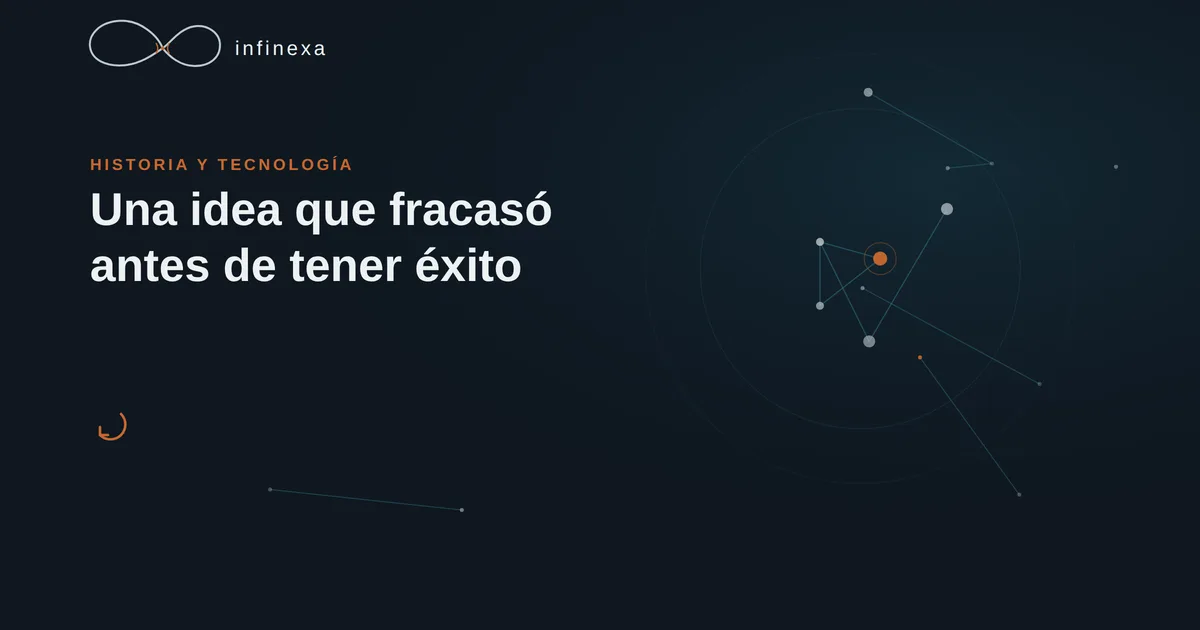
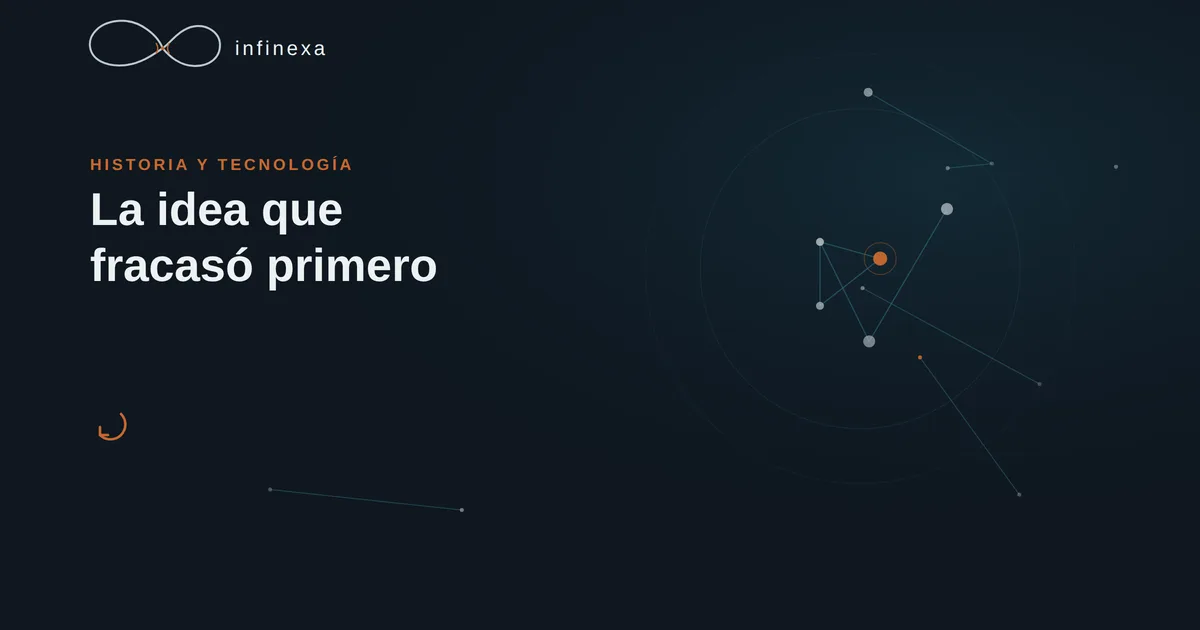
Corregir duplicidad título/imagen en arco Bitcoin (posts #10-13)

Changed region(s): [[0.0617, 0.3016, 0.4625, 0.3619], [0.0617, 0.3921, 0.4317, 0.4524]]

diff --git a/_plantillas/sistema-imagenes-blog/generar_destacadas.py b/_plantillas/sistema-imagenes-blog/generar_destacadas.py
@@ -171,16 +171,16 @@ CONFIGS = [
          titulo=["Ingreso pasivo:", "lo que sí es"], subtitulo=None,
          icon="diversifica", seed=77),
     dict(out="piezas-rompecabezas", category="HISTORIA Y TECNOLOGÍA",
-         titulo=["Las piezas de un", "rompecabezas de 30 años"], subtitulo=None,
+         titulo=["30 años de", "piezas sueltas"], subtitulo=None,
          icon="patron", seed=89),
     dict(out="ecash-digicash", category="HISTORIA Y TECNOLOGÍA",
-         titulo=["Una idea que fracasó", "antes de tener éxito"], subtitulo=None,
+         titulo=["La idea que", "fracasó primero"], subtitulo=None,
          icon="patron", seed=97),
     dict(out="whitepaper-bitcoin", category="ECONOMÍA DESCENTRALIZADA",
-         titulo=["El documento de nueve", "páginas que cambió todo"], subtitulo=None,
+         titulo=["Nueve páginas,", "un cambio total"], subtitulo=None,
          icon="carta", seed=101),
     dict(out="bloque-genesis-bitcoin", category="ECONOMÍA DESCENTRALIZADA",
-         titulo=["El mensaje escondido en", "el primer bloque de la historia"], subtitulo=None,
+         titulo=["El mensaje del", "primer bloque"], subtitulo=None,
          icon="carta", seed=103),
 ]
 

diff --git a/_posts/2026-07-12-bloque-genesis-bitcoin.md b/_posts/2026-07-12-bloque-genesis-bitcoin.md
@@ -1,5 +1,5 @@
 ---
-title: "El mensaje escondido en el primer bloque de la historia"
+title: "El mensaje escondido en el primer bloque de la historia: lo que Satoshi dejó grabado para siempre"
 author: "Alejandro García, MBA"
 category: "economía descentralizada"
 pillar: "/"

diff --git a/_posts/2026-07-05-piezas-rompecabezas.md b/_posts/2026-07-05-piezas-rompecabezas.md
@@ -1,5 +1,5 @@
 ---
-title: "Las piezas sueltas de un rompecabezas de 30 años"
+title: "Las piezas sueltas de un rompecabezas de 30 años: lo que ya existía antes de Bitcoin"
 author: "Alejandro García, MBA"
 category: "historia y tecnología"
 pillar: "/infografia"

diff --git a/_posts/2026-07-12-whitepaper-bitcoin.md b/_posts/2026-07-12-whitepaper-bitcoin.md
@@ -1,5 +1,5 @@
 ---
-title: "El documento de nueve páginas que cambió todo"
+title: "El documento de nueve páginas que cambió todo: qué dice realmente el whitepaper de Bitcoin"
 author: "Alejandro García, MBA"
 category: "economía descentralizada"
 pillar: "/"

diff --git a/_posts/2026-07-05-ecash-digicash.md b/_posts/2026-07-05-ecash-digicash.md
@@ -1,5 +1,5 @@
 ---
-title: "Una idea que fracasó antes de tener éxito"
+title: "Una idea que fracasó antes de tener éxito: la historia de eCash y DigiCash"
 author: "Alejandro García, MBA"
 category: "historia y tecnología"
 pillar: "/infografia"
